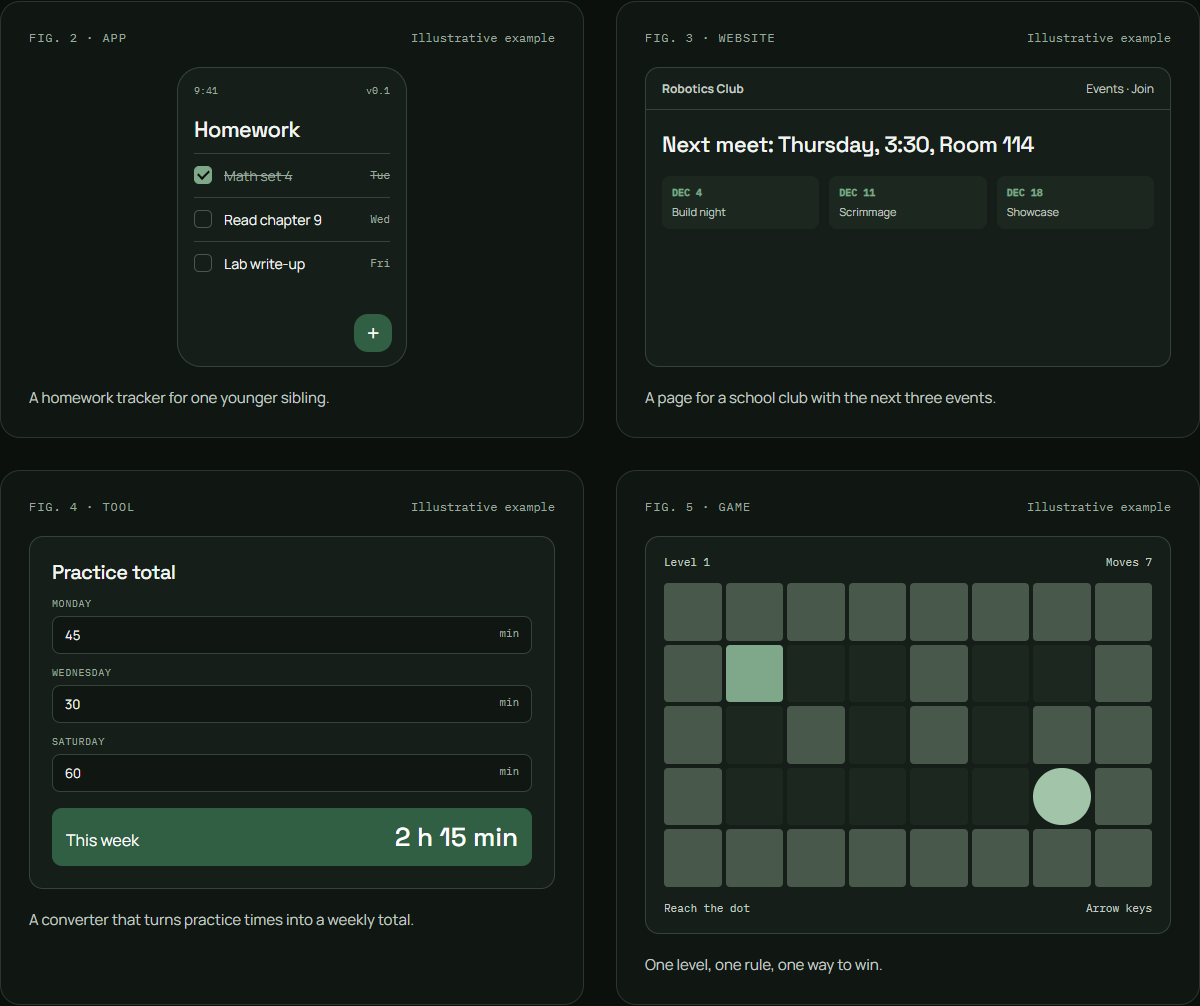
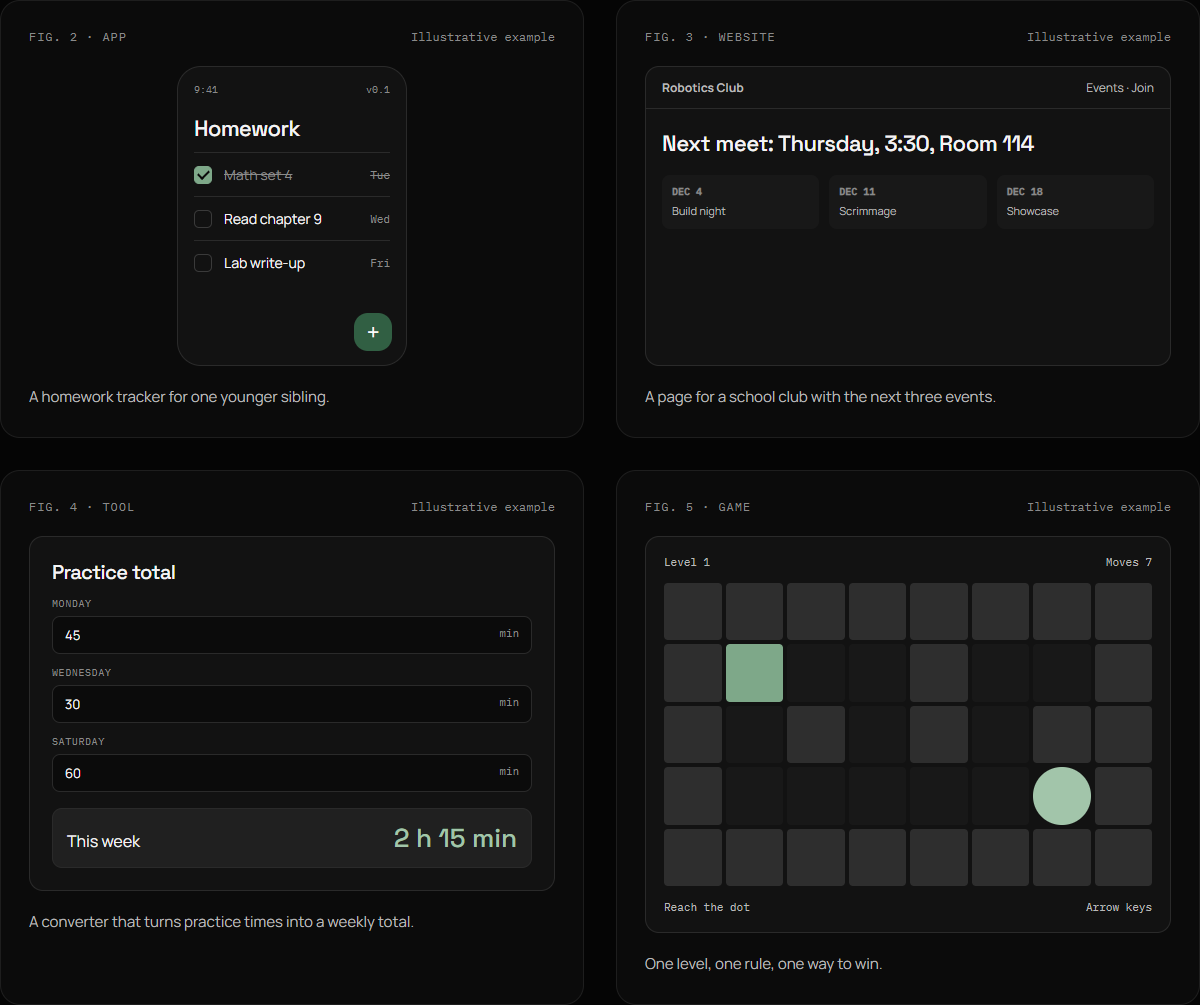
Redesign round 2: neutral palette, simplified mark after founder review

diff --git a/design/mockups/homepage.html b/design/mockups/homepage.html
@@ -6,9 +6,9 @@
 <link rel="preconnect" href="https://fonts.googleapis.com">
 <link href="https://fonts.googleapis.com/css2?family=Space+Grotesk:wght@400;500;700&family=Manrope:wght@400;500;600;700&family=IBM+Plex+Mono:wght@400;500&display=swap" rel="stylesheet">
 <style>
-:root{--bg:#101713;--bgd:#0B100D;--s1:#151E18;--s2:#1C281F;--s3:#253329;--l1:#28362C;--l2:#354438;--l3:#48594C;--t1:#F1F5F1;--t2:#C1CCC3;--t3:#9BA89F;--pine:#7EA889;--pineh:#A2C5AA;--pined:#315F43;--btn:#315F43;--rule:rgba(126,168,137,.075)}
+:root{--bg:#0B0B0B;--bgd:#050505;--s1:#121212;--s2:#181818;--s3:#202020;--l1:#1E1E1E;--l2:#2A2A2A;--l3:#3A3A3A;--t1:#F4F4F4;--t2:#B9B9B9;--t3:#8A8A8A;--pine:#7EA889;--pineh:#A2C5AA;--pined:#315F43;--btn:#315F43;--rule:rgba(255,255,255,.045)}
 *{box-sizing:border-box;margin:0;padding:0}
-body{background:#060907;color:var(--t1);font-family:Manrope,system-ui,sans-serif;-webkit-font-smoothing:antialiased;padding:40px;display:flex;gap:80px;align-items:flex-start}
+body{background:#000;color:var(--t1);font-family:Manrope,system-ui,sans-serif;-webkit-font-smoothing:antialiased;padding:40px;display:flex;gap:80px;align-items:flex-start}
 .artboard{background:var(--bg);flex:none;overflow:hidden;position:relative}
 .d{width:1440px}.m{width:390px}
 .sg{font-family:"Space Grotesk",sans-serif;letter-spacing:-.03em;font-weight:500}
@@ -21,10 +21,10 @@ body{background:#060907;color:var(--t1);font-family:Manrope,system-ui,sans-serif
 .mark{display:inline-block;vertical-align:middle}
 header{height:72px;display:flex;align-items:center;justify-content:space-between;border-bottom:1px solid var(--l1);background:var(--bgd)}
 .logo{display:flex;align-items:center;gap:11px}
-.wm{font-family:"Space Grotesk";font-weight:500;font-size:22px;letter-spacing:-.03em;position:relative}
-.wm b{font-weight:500;color:var(--pine)}
+.wm{font-family:"Space Grotesk";font-weight:500;font-size:22px;letter-spacing:-.03em;position:relative;color:var(--t1)}
+.wm b{font-weight:500;color:inherit}
 .wm i{font-style:normal;position:relative}
-.wm i::after{content:"";position:absolute;left:50%;top:-1px;transform:translateX(-50%);border-left:3px solid transparent;border-right:3px solid transparent;border-bottom:5px solid var(--pine)}
+.wm i::after{display:none}
 nav{display:flex;gap:4px}nav a{color:var(--t2);font-size:14px;font-weight:500;padding:8px 12px;border-radius:8px}
 .hero{background:var(--bgd);position:relative;padding:96px 0 80px;border-bottom:1px solid var(--l1)}
 .rules{position:absolute;inset:0;display:grid;grid-template-columns:repeat(6,1fr);pointer-events:none}
@@ -48,14 +48,14 @@ h1{font-size:76px;line-height:1.0;margin:22px 0 28px}
 .sketch .ttl s{color:var(--t3)}
 .sketch .box{border:1.5px dashed var(--l3);border-radius:8px;height:34px;margin-top:12px}
 .sketch .box.sm{width:60%}
-.sketch .note{position:absolute;left:18px;bottom:18px;background:#2a3a2d;color:var(--t1);font-family:"IBM Plex Mono";font-size:11px;padding:8px 10px;border-radius:6px;transform:rotate(-2deg);line-height:1.5}
+.sketch .note{position:absolute;left:18px;bottom:18px;background:#262626;color:var(--t1);font-family:"IBM Plex Mono";font-size:11px;padding:8px 10px;border-radius:6px;transform:rotate(-2deg);line-height:1.5}
 .phone{width:290px;height:330px;background:var(--s2);border-radius:28px;padding:18px 18px 0;position:relative}
 .phone .bar{display:flex;justify-content:space-between;font-family:"IBM Plex Mono";font-size:11px;color:var(--t3)}
 .phone h4{font-family:"Space Grotesk";font-weight:500;font-size:24px;letter-spacing:-.02em;margin:22px 0 14px}
 .row{display:flex;align-items:center;gap:12px;padding:12px 0;border-top:1px solid var(--l2);font-size:14px}
 .row .cb{width:18px;height:18px;border-radius:5px;border:1.5px solid var(--l3);flex:none}
 .row .cb.on{background:var(--pine);border-color:var(--pine)}
-.row .cb.on::after{content:"";display:block;width:5px;height:9px;border:solid #0B100D;border-width:0 2px 2px 0;transform:rotate(45deg);margin:1px 0 0 5px}
+.row .cb.on::after{content:"";display:block;width:5px;height:9px;border:solid #0B0B0B;border-width:0 2px 2px 0;transform:rotate(45deg);margin:1px 0 0 5px}
 .row .due{margin-left:auto;font-family:"IBM Plex Mono";font-size:11px;color:var(--t3)}
 .row.done span{color:var(--t3);text-decoration:line-through}
 .fab{position:absolute;right:18px;bottom:22px;width:44px;height:44px;border-radius:14px;background:var(--btn);display:flex;align-items:center;justify-content:center;font-size:22px;color:#fff}
@@ -73,7 +73,7 @@ h1{font-size:76px;line-height:1.0;margin:22px 0 28px}
 .conn{position:absolute;left:150px;top:290px;width:180px;height:140px;pointer-events:none}
 .strip{border-bottom:1px solid var(--l1);padding:22px 0;display:flex;align-items:center;gap:40px;overflow:hidden}
 .strip .items{display:flex;gap:40px;align-items:center;white-space:nowrap;font-family:"Space Grotesk";font-weight:500;font-size:20px;letter-spacing:-.02em;color:var(--t2)}
-.strip .items span::before{content:"";display:inline-block;width:5px;height:5px;background:var(--pine);border-radius:1px;margin:0 40px 3px 0;transform:rotate(45deg)}
+.strip .items span::before{content:"";display:inline-block;width:5px;height:5px;background:var(--l3);border-radius:1px;margin:0 40px 3px 0;transform:rotate(45deg)}
 .strip .items span:first-child::before{display:none}
 .pause{margin-left:auto;font-family:"IBM Plex Mono";font-size:11px;color:var(--t3);border:1px solid var(--l2);border-radius:6px;padding:6px 10px}
 section{padding:112px 0}
@@ -89,7 +89,7 @@ h2{font-size:48px;line-height:1.06}
 .tl .cols{display:grid;grid-template-columns:repeat(3,1fr);gap:48px}
 .tl .node{position:absolute;top:-6px;width:14px;height:14px;border-radius:50%;background:var(--bg);border:2px solid var(--l3)}
 .tl .node.a{left:0;border-color:var(--pine);background:var(--pine)}.tl .node.b{left:33.33%}.tl .node.c{left:66.66%}
-.stage .code{font-family:"IBM Plex Mono";font-size:12px;color:var(--pine);letter-spacing:.08em}
+.stage .code{font-family:"IBM Plex Mono";font-size:12px;color:var(--t3);letter-spacing:.08em}
 .stage h3{font-size:32px;margin:10px 0 4px}
 .stage .dt{font-family:"IBM Plex Mono";font-size:12px;color:var(--t3);margin-bottom:14px}
 .stage p{color:var(--t2);font-size:16px;line-height:1.6}
@@ -114,18 +114,18 @@ h2{font-size:48px;line-height:1.06}
 .site .hero2 h5{font-family:"Space Grotesk";font-size:22px;font-weight:500;letter-spacing:-.02em;line-height:1.1}
 .site .ev{display:grid;grid-template-columns:repeat(3,1fr);gap:10px;padding:10px 16px}
 .site .ev div{background:var(--s2);border-radius:8px;padding:10px;font-size:11px;color:var(--t2);line-height:1.4}
-.site .ev b{display:block;font-family:"IBM Plex Mono";font-size:10px;color:var(--pine);margin-bottom:4px}
+.site .ev b{display:block;font-family:"IBM Plex Mono";font-size:10px;color:var(--t3);margin-bottom:4px}
 .tool{padding:22px}
 .tool label{display:block;font-family:"IBM Plex Mono";font-size:10px;color:var(--t3);margin:12px 0 6px;letter-spacing:.06em;text-transform:uppercase}
 .tool .in{background:var(--bg);border:1px solid var(--l2);border-radius:8px;padding:9px 12px;font-size:13px;color:var(--t1);display:flex;justify-content:space-between}
 .tool .in span{color:var(--t3);font-family:"IBM Plex Mono";font-size:11px}
-.tool .tot{margin-top:16px;background:var(--pined);border-radius:10px;padding:12px 14px;display:flex;justify-content:space-between;align-items:baseline;color:#fff}
-.tool .tot b{font-family:"Space Grotesk";font-size:26px;font-weight:500}
+.tool .tot{margin-top:16px;background:var(--s3);border:1px solid var(--l2);border-radius:10px;padding:12px 14px;display:flex;justify-content:space-between;align-items:baseline;color:var(--t1)}
+.tool .tot b{font-family:"Space Grotesk";font-size:26px;font-weight:500;color:var(--pineh)}
 .game{padding:18px;display:flex;flex-direction:column;gap:14px}
 .game .hud{display:flex;justify-content:space-between;font-family:"IBM Plex Mono";font-size:11px;color:var(--t2)}
 .game .board{display:grid;grid-template-columns:repeat(8,1fr);gap:4px}
 .game .board i{aspect-ratio:1;background:var(--s2);border-radius:4px}
-.game .board i.w{background:var(--l3)}.game .board i.p{background:var(--pine)}.game .board i.g{background:var(--pineh);border-radius:50%}
+.game .board i.w{background:#2E2E2E}.game .board i.p{background:var(--pine)}.game .board i.g{background:var(--pineh);border-radius:50%}
 .leave .panel{margin-top:56px;background:var(--s1);border-radius:20px;padding:12px 48px;display:grid;grid-template-columns:1fr 1fr;column-gap:64px}
 .leave .it{padding:30px 0;border-top:1px solid var(--l2)}
 .leave .it:nth-child(-n+2){border-top:0}
@@ -181,7 +181,7 @@ footer .cols a,footer .cols p{display:block;color:var(--t3);font-size:14px;line-
 <!-- ===================== DESKTOP 1440 ===================== -->
 <div class="artboard d" id="desktop">
 <header><div class="wrap" style="display:flex;align-items:center;justify-content:space-between;width:100%">
-  <div class="logo"><svg class="mark" width="26" height="26" viewBox="0 0 24 24" fill="#7EA889"><path d="M12 6 L21 17 H3 Z"/><path d="M12 1 L18 10 H6 Z"/><rect x="10.5" y="17" width="3" height="3"/><rect x="5" y="21.5" width="14" height="2" rx="1"/></svg><span class="wm">P<i>ı</i>ne<b>Launch</b></span></div>
+  <div class="logo"><svg class="mark" width="26" height="26" viewBox="0 0 24 24" fill="#7EA889"><path d="M12 2.5 L21.5 16 H2.5 Z"/><rect x="4.5" y="19" width="15" height="2.5" rx="1.25"/></svg><span class="wm">PineLaunch</span></div>
   <nav><a>Dashboard</a><a>Week 1</a><a>Week 2</a><a>Week 3</a><a>Launch Day</a><a>Prompts</a><a>Parents</a></nav>
   <a class="btn p" style="height:42px">Start</a>
 </div></header>
@@ -203,7 +203,7 @@ footer .cols a,footer .cols p{display:block;color:var(--t3);font-size:14px;line-
   <div class="fig">
     <div class="fcard" style="left:0;top:0"><div class="tag"><span class="n on">01</span><span class="mono">Idea · Dec 1–6</span></div>
       <div class="card sketch"><div class="ttl"><s>study app?</s> → homework tracker</div><div class="box"></div><div class="box sm"></div><div class="box" style="width:80%"></div><div class="note">for my brother<br>grade 6</div></div></div>
-    <div class="fcard" style="left:256px;top:90px"><div class="tag"><span class="n">02</span><span class="mono">Build · Dec 7–13</span></div>
+    <div class="fcard" style="left:256px;top:112px"><div class="tag"><span class="n">02</span><span class="mono">Build · Dec 7–13</span></div>
       <div class="card phone"><div class="bar"><span>9:41</span><span>v0.1</span></div><h4>Homework</h4>
       <div class="row done"><span class="cb on"></span><span>Math set 4</span><span class="due">Tue</span></div>
       <div class="row"><span class="cb"></span><span>Read chapter 9</span><span class="due">Wed</span></div>
@@ -235,7 +235,7 @@ footer .cols a,footer .cols p{display:block;color:var(--t3);font-size:14px;line-
   <div class="two" style="align-items:end"><h2 class="sg">Three weeks, three jobs</h2><p class="sublead" style="margin:0">Each week has one goal. Finish it and the next one is waiting.</p></div>
   <div class="tl"><div class="track"><span class="node a"></span><span class="node b"></span><span class="node c"></span></div>
     <div class="cols">
-      <div class="stage"><div class="code">01 · WEEK 1</div><h3 class="sg">Idea</h3><div class="dt">Dec 1 to 6</div><p>Choose something small enough to finish. Seven questions give you a Project Card.</p><div class="ic"><div class="pc"><span class="mono">Project card</span><b>Homework tracker</b><span>App · for my brother · three features</span></div></div></div>
+      <div class="stage"><div class="code" style="color:var(--pine)">01 · WEEK 1</div><h3 class="sg">Idea</h3><div class="dt">Dec 1 to 6</div><p>Choose something small enough to finish. Seven questions give you a Project Card.</p><div class="ic"><div class="pc"><span class="mono">Project card</span><b>Homework tracker</b><span>App · for my brother · three features</span></div></div></div>
       <div class="stage"><div class="code">02 · WEEK 2</div><h3 class="sg">Build</h3><div class="dt">Dec 7 to 13</div><p>Make a working first version. Three features, the ugly version first.</p><div class="ic"><div class="scr"><div class="row done"><span class="cb on"></span><span>Add a task</span></div><div class="row done"><span class="cb on"></span><span>Tick it off</span></div><div class="row"><span class="cb"></span><span>Sort by due date</span></div></div></div></div>
       <div class="stage"><div class="code">03 · WEEK 3</div><h3 class="sg">Launch</h3><div class="dt">Dec 14 to 20</div><p>Get three people to try it, fix one thing, and publish a link.</p><div class="ic"><div class="urlbar"><span>homework-tracker.replit.app</span><span class="live">Live</span></div></div></div>
     </div>
@@ -284,7 +284,7 @@ footer .cols a,footer .cols p{display:block;color:var(--t3);font-size:14px;line-
 <div class="close"><div class="wrap"><h2 class="sg">Start with one small idea.</h2><p>The idea picker takes about ten minutes and gives you a Project Card. That is the whole first step.</p><div class="cta" style="margin:0"><a class="btn p">Start the idea picker</a><a class="btn">For parents</a></div></div></div>
 
 <footer><div class="wrap cols">
-  <div><div class="logo"><svg class="mark" width="22" height="22" viewBox="0 0 24 24" fill="#7EA889"><path d="M12 6 L21 17 H3 Z"/><path d="M12 1 L18 10 H6 Z"/><rect x="10.5" y="17" width="3" height="3"/><rect x="5" y="21.5" width="14" height="2" rx="1"/></svg><span class="wm" style="font-size:19px">P<i>ı</i>ne<b>Launch</b></span></div><p style="margin-top:14px;max-width:360px">A free three-week program where high school students build and launch one real project. Pilot cohort, December 2026.</p></div>
+  <div><div class="logo"><svg class="mark" width="22" height="22" viewBox="0 0 24 24" fill="#7EA889"><path d="M12 2.5 L21.5 16 H2.5 Z"/><rect x="4.5" y="19" width="15" height="2.5" rx="1.25"/></svg><span class="wm" style="font-size:19px">PineLaunch</span></div><p style="margin-top:14px;max-width:360px">A free three-week program where high school students build and launch one real project. Pilot cohort, December 2026.</p></div>
   <div><a>Dashboard</a><a>Week 1 · Idea</a><a>Week 2 · Build</a><a>Week 3 · Launch</a><a>Launch Day</a><a>Prompts</a></div>
   <div><a>For parents</a><a>aithacode@gmail.com</a><p>No accounts. No tracking. Progress stays in your browser.</p></div>
 </div></footer>
@@ -292,7 +292,7 @@ footer .cols a,footer .cols p{display:block;color:var(--t3);font-size:14px;line-
 
 <!-- ===================== MOBILE 390 ===================== -->
 <div class="artboard m" id="mobile">
-<header><div class="logo"><svg class="mark" width="24" height="24" viewBox="0 0 24 24" fill="#7EA889"><path d="M12 6 L21 17 H3 Z"/><path d="M12 1 L18 10 H6 Z"/><rect x="10.5" y="17" width="3" height="3"/><rect x="5" y="21.5" width="14" height="2" rx="1"/></svg><span class="wm" style="font-size:20px">P<i>ı</i>ne<b>Launch</b></span></div><div class="menu"><i></i><i></i></div></header>
+<header><div class="logo"><svg class="mark" width="24" height="24" viewBox="0 0 24 24" fill="#7EA889"><path d="M12 2.5 L21.5 16 H2.5 Z"/><rect x="4.5" y="19" width="15" height="2.5" rx="1.25"/></svg><span class="wm" style="font-size:20px">PineLaunch</span></div><div class="menu"><i></i><i></i></div></header>
 <div class="hero"><div class="wrap">
   <div class="mono">Free pilot · Dec 1 – 20, 2026</div>
   <h1 class="sg">Build and launch one real project in three weeks.</h1>
@@ -311,7 +311,7 @@ footer .cols a,footer .cols p{display:block;color:var(--t3);font-size:14px;line-
   <div class="list"><div class="it"><h3 class="sg">Students 13 to 17</h3><p>Most have never written code. The guides assume you are starting from zero.</p></div><div class="it"><h3 class="sg">Beginners are welcome</h3><p>You learn by building one thing, not by finishing a course first.</p></div><div class="it"><h3 class="sg">People with a small idea</h3><p>An app, a website, a tool, or a one-screen game.</p></div></div></div></section>
 <section class="hair"><div class="wrap"><h2 class="sg">Three weeks,<br>three jobs</h2><p class="sublead">Each week has one goal.</p>
   <div class="tl"><div class="cols">
-    <div class="stage"><div class="code">01 · WEEK 1</div><h3 class="sg">Idea</h3><div class="dt">Dec 1 to 6</div><p>Choose something small enough to finish.</p></div>
+    <div class="stage"><div class="code" style="color:var(--pine)">01 · WEEK 1</div><h3 class="sg">Idea</h3><div class="dt">Dec 1 to 6</div><p>Choose something small enough to finish.</p></div>
     <div class="stage"><div class="code">02 · WEEK 2</div><h3 class="sg">Build</h3><div class="dt">Dec 7 to 13</div><p>Make a working first version.</p></div>
     <div class="stage"><div class="code">03 · WEEK 3</div><h3 class="sg">Launch</h3><div class="dt">Dec 14 to 20</div><p>Get feedback and publish the project.</p></div>
   </div></div></div></section>
@@ -325,7 +325,7 @@ footer .cols a,footer .cols p{display:block;color:var(--t3);font-size:14px;line-
 <section class="leave"><div class="wrap"><h2 class="sg">What you leave with</h2><div class="panel"><div class="it"><h3 class="sg">One working project</h3><p>Built by you, used by real people.</p></div><div class="it"><h3 class="sg">A public link</h3><p>Anyone can open it. It is yours to keep.</p></div><div class="it"><h3 class="sg">Feedback from real people</h3><p>Three testers watched, and you fixed what mattered.</p></div><div class="it"><h3 class="sg">A way of working</h3><p>Scope small, build the ugly version, test, fix one thing, ship.</p></div></div></div></section>
 <section class="runs hair"><div class="wrap"><h2 class="sg" style="margin-bottom:18px">Who runs this</h2><p>PineLaunch is built and run by a high school student, with his parents' support. A parent is in the group chat. The program is free during the pilot.</p><div class="priv"><span>This site keeps no accounts and collects no personal information. Your progress is saved in your own browser.</span></div></div></section>
 <div class="close"><div class="wrap"><h2 class="sg">Start with one small idea.</h2><p>The idea picker takes about ten minutes and gives you a Project Card.</p><div class="cta"><a class="btn p">Start the idea picker</a><a class="btn">For parents</a></div></div></div>
-<footer><div class="wrap cols"><div><div class="logo"><span class="wm" style="font-size:19px">P<i>ı</i>ne<b>Launch</b></span></div><p style="margin-top:10px">A free three-week program. Pilot cohort, December 2026.</p></div><div><a>Dashboard</a><a>Week 1 · Idea</a><a>Week 2 · Build</a><a>Week 3 · Launch</a><a>Prompts</a></div><div><a>For parents</a><a>aithacode@gmail.com</a><p>No accounts. No tracking.</p></div></div></footer>
+<footer><div class="wrap cols"><div><div class="logo"><span class="wm" style="font-size:19px">PineLaunch</span></div><p style="margin-top:10px">A free three-week program. Pilot cohort, December 2026.</p></div><div><a>Dashboard</a><a>Week 1 · Idea</a><a>Week 2 · Build</a><a>Week 3 · Launch</a><a>Prompts</a></div><div><a>For parents</a><a>aithacode@gmail.com</a><p>No accounts. No tracking.</p></div></div></footer>
 </div>
 </body>
 </html>

diff --git a/design/mockups/brand.html b/design/mockups/brand.html
@@ -3,81 +3,67 @@
 <link href="https://fonts.googleapis.com/css2?family=Space+Grotesk:wght@500&family=Manrope:wght@400;600&family=IBM+Plex+Mono:wght@400;500&display=swap" rel="stylesheet">
 <style>
 *{box-sizing:border-box;margin:0;padding:0}
-body{background:#0B100D;color:#F1F5F1;font-family:Manrope,sans-serif;-webkit-font-smoothing:antialiased}
-#sheet{width:1440px;padding:72px 96px;background:#0B100D}
+body{background:#050505;color:#F4F4F4;font-family:Manrope,sans-serif;-webkit-font-smoothing:antialiased}
+#sheet{width:1440px;padding:72px 96px;background:#050505}
 h1{font-family:"Space Grotesk";font-weight:500;font-size:40px;letter-spacing:-.03em}
-.sub{color:#C1CCC3;font-size:17px;line-height:1.6;max-width:760px;margin:12px 0 48px}
-.mono{font-family:"IBM Plex Mono";font-size:12px;letter-spacing:.08em;text-transform:uppercase;color:#9BA89F}
-.grid{display:grid;grid-template-columns:1fr 1fr 1fr;gap:24px;margin-bottom:40px}
-.c{border:1px solid #28362C;border-radius:20px;padding:28px;background:#101713}
-.c.rec{border-color:#315F43}
-.c h3{font-family:"Space Grotesk";font-weight:500;font-size:22px;letter-spacing:-.02em;margin:18px 0 8px}
-.c p{color:#C1CCC3;font-size:14px;line-height:1.55}
-.row{display:flex;align-items:flex-end;gap:28px;height:150px}
-.pill{display:inline-block;font-family:"IBM Plex Mono";font-size:11px;letter-spacing:.08em;text-transform:uppercase;color:#A2C5AA;border:1px solid #315F43;border-radius:999px;padding:5px 10px;margin-left:10px;vertical-align:middle}
-.wm{font-family:"Space Grotesk";font-weight:500;letter-spacing:-.03em}
-.wm b{font-weight:500;color:#7EA889}
-.wm i{font-style:normal;position:relative}
-.wm i::after{content:"";position:absolute;left:50%;top:.04em;transform:translateX(-50%);border-left:.13em solid transparent;border-right:.13em solid transparent;border-bottom:.2em solid #7EA889}
+.sub{color:#B9B9B9;font-size:17px;line-height:1.6;max-width:760px;margin:12px 0 48px}
+.mono{font-family:"IBM Plex Mono";font-size:12px;letter-spacing:.08em;text-transform:uppercase;color:#8A8A8A}
+.wm{font-family:"Space Grotesk";font-weight:500;letter-spacing:-.03em;color:#F4F4F4}
 .lock{display:flex;align-items:center;gap:.5em}
-.panels{display:grid;grid-template-columns:2fr 1fr;gap:24px}
-.p{border-radius:20px;padding:36px;display:flex;flex-direction:column;gap:32px}
-.dark{background:#101713;border:1px solid #28362C}
-.light{background:#F1F5F1;color:#0B100D}
-.light .wm{color:#0B100D}.light .wm b{color:#315F43}
+.grid{display:grid;grid-template-columns:3fr 2fr;gap:24px;margin-bottom:24px}
+.p{border-radius:20px;padding:36px;display:flex;flex-direction:column;gap:32px;border:1px solid #1E1E1E;background:#0B0B0B}
+.light{background:#F4F4F4;color:#0B0B0B;border-color:#F4F4F4}
+.light .wm{color:#0B0B0B}
+.light .mono{color:#6A6A6A}
+.sizes{display:flex;align-items:flex-end;gap:40px;height:200px}
 .tiles{display:flex;align-items:flex-end;gap:32px}
-.tile{background:#0B100D;display:flex;align-items:center;justify-content:center}
-.light .tile{background:#0B100D}
+.tile{background:#0B0B0B;display:flex;align-items:center;justify-content:center}
+.light .tile{border:1px solid #DADADA}
+.old{display:grid;grid-template-columns:repeat(3,1fr);gap:24px}
+.old .c{border:1px solid #1E1E1E;border-radius:16px;padding:20px 24px;display:flex;align-items:center;gap:20px;color:#8A8A8A;font-size:14px}
+.btn{display:inline-flex;align-items:center;height:44px;padding:0 20px;border-radius:10px;font-weight:600;font-size:14px;background:#315F43;color:#fff}
+.note{color:#8A8A8A;font-size:14px;line-height:1.6}
 </style></head><body>
 <div id="sheet">
-<h1>PineLaunch — logo concepts</h1>
-<p class="sub">Three directions, all built on a 24-unit grid, all working at 16 px. Concept A is the recommendation: it reads as a pine first and a launch second, and its silhouette stays clear in a favicon.</p>
+<h1>PineLaunch — brand, revised</h1>
+<p class="sub">One triangle over one bar. The triangle is the pine, the arrow and the launch; the bar is the pad it has just left. Two shapes, nothing to lose at 16 px. The wordmark is one color and one weight. Pine green appears on the mark, the primary button and small live indicators, and nowhere else.</p>
 
 <div class="grid">
-  <div class="c rec"><span class="mono">Concept A</span><span class="pill">Recommended</span>
-    <div class="row">
-      <svg width="150" height="150" viewBox="0 0 24 24" fill="#7EA889"><path d="M12 6 L21 17 H3 Z"/><path d="M12 1 L18 10 H6 Z"/><rect x="10.5" y="17" width="3" height="3"/><rect x="5" y="21.5" width="14" height="2" rx="1"/></svg>
-      <svg width="48" height="48" viewBox="0 0 24 24" fill="#7EA889"><path d="M12 6 L21 17 H3 Z"/><path d="M12 1 L18 10 H6 Z"/><rect x="10.5" y="17" width="3" height="3"/><rect x="5" y="21.5" width="14" height="2" rx="1"/></svg>
-      <svg width="24" height="24" viewBox="0 0 24 24" fill="#7EA889"><path d="M12 6 L21 17 H3 Z"/><path d="M12 1 L18 10 H6 Z"/><rect x="10.5" y="17" width="3" height="3"/><rect x="5" y="21.5" width="14" height="2" rx="1"/></svg>
-      <svg width="16" height="16" viewBox="0 0 24 24" fill="#7EA889"><path d="M12 6 L21 17 H3 Z"/><path d="M12 1 L18 10 H6 Z"/><rect x="10.5" y="17" width="3" height="3"/><rect x="5" y="21.5" width="14" height="2" rx="1"/></svg>
+  <div class="p">
+    <span class="mono">Mark at 200, 64, 32, 24, 16</span>
+    <div class="sizes">
+      <svg width="200" height="200" viewBox="0 0 24 24" fill="#7EA889"><path d="M12 2.5 L21.5 16 H2.5 Z"/><rect x="4.5" y="19" width="15" height="2.5" rx="1.25"/></svg>
+      <svg width="64" height="64" viewBox="0 0 24 24" fill="#7EA889"><path d="M12 2.5 L21.5 16 H2.5 Z"/><rect x="4.5" y="19" width="15" height="2.5" rx="1.25"/></svg>
+      <svg width="32" height="32" viewBox="0 0 24 24" fill="#7EA889"><path d="M12 2.5 L21.5 16 H2.5 Z"/><rect x="4.5" y="19" width="15" height="2.5" rx="1.25"/></svg>
+      <svg width="24" height="24" viewBox="0 0 24 24" fill="#7EA889"><path d="M12 2.5 L21.5 16 H2.5 Z"/><rect x="4.5" y="19" width="15" height="2.5" rx="1.25"/></svg>
+      <svg width="16" height="16" viewBox="0 0 24 24" fill="#7EA889"><path d="M12 2.5 L21.5 16 H2.5 Z"/><rect x="4.5" y="19" width="15" height="2.5" rx="1.25"/></svg>
     </div>
-    <h3>Pine on the pad</h3><p>Two tiers and a trunk make the pine. The bar underneath is the launch pad, and the small gap means the tree has already lifted off. Calm, solid, unmistakably a pine.</p></div>
-  <div class="c"><span class="mono">Concept B</span>
-    <div class="row">
-      <svg width="150" height="150" viewBox="0 0 24 24" fill="#7EA889"><path d="M12 1 L21 18 H14.5 L12 15 L9.5 18 H3 Z"/><rect x="10.5" y="19" width="3" height="4"/></svg>
-      <svg width="48" height="48" viewBox="0 0 24 24" fill="#7EA889"><path d="M12 1 L21 18 H14.5 L12 15 L9.5 18 H3 Z"/><rect x="10.5" y="19" width="3" height="4"/></svg>
-      <svg width="24" height="24" viewBox="0 0 24 24" fill="#7EA889"><path d="M12 1 L21 18 H14.5 L12 15 L9.5 18 H3 Z"/><rect x="10.5" y="19" width="3" height="4"/></svg>
-      <svg width="16" height="16" viewBox="0 0 24 24" fill="#7EA889"><path d="M12 1 L21 18 H14.5 L12 15 L9.5 18 H3 Z"/><rect x="10.5" y="19" width="3" height="4"/></svg>
-    </div>
-    <h3>Rocket pine</h3><p>One tall triangle with a notch cut into its base, so the outline is a pine and a rocket with fins at the same time. Sharper and more energetic, slightly less friendly.</p></div>
-  <div class="c"><span class="mono">Concept C</span>
-    <div class="row">
-      <svg width="150" height="150" viewBox="0 0 24 24" fill="#7EA889"><rect x="3" y="2" width="4" height="20" rx="1"/><path d="M9 4 L21 11 L9 18 Z"/></svg>
-      <svg width="48" height="48" viewBox="0 0 24 24" fill="#7EA889"><rect x="3" y="2" width="4" height="20" rx="1"/><path d="M9 4 L21 11 L9 18 Z"/></svg>
-      <svg width="24" height="24" viewBox="0 0 24 24" fill="#7EA889"><rect x="3" y="2" width="4" height="20" rx="1"/><path d="M9 4 L21 11 L9 18 Z"/></svg>
-      <svg width="16" height="16" viewBox="0 0 24 24" fill="#7EA889"><rect x="3" y="2" width="4" height="20" rx="1"/><path d="M9 4 L21 11 L9 18 Z"/></svg>
-    </div>
-    <h3>P monogram</h3><p>A stem and a sideways pine form a letter P that also reads as a play or launch arrow. Clever, but it loses the pine at small sizes and looks like a media button.</p></div>
-</div>
-
-<div class="panels">
-  <div class="p dark">
-    <span class="mono">Concept A — lockups and wordmark</span>
-    <div class="lock" style="font-size:40px"><svg width="44" height="44" viewBox="0 0 24 24" fill="#7EA889"><path d="M12 6 L21 17 H3 Z"/><path d="M12 1 L18 10 H6 Z"/><rect x="10.5" y="17" width="3" height="3"/><rect x="5" y="21.5" width="14" height="2" rx="1"/></svg><span class="wm">P<i>ı</i>ne<b>Launch</b></span></div>
-    <div class="lock" style="font-size:22px"><svg width="26" height="26" viewBox="0 0 24 24" fill="#7EA889"><path d="M12 6 L21 17 H3 Z"/><path d="M12 1 L18 10 H6 Z"/><rect x="10.5" y="17" width="3" height="3"/><rect x="5" y="21.5" width="14" height="2" rx="1"/></svg><span class="wm">P<i>ı</i>ne<b>Launch</b></span><span class="mono" style="margin-left:24px">Header size</span></div>
-    <div class="lock" style="font-size:40px"><svg width="44" height="44" viewBox="0 0 24 24" fill="#F1F5F1"><path d="M12 6 L21 17 H3 Z"/><path d="M12 1 L18 10 H6 Z"/><rect x="10.5" y="17" width="3" height="3"/><rect x="5" y="21.5" width="14" height="2" rx="1"/></svg><span class="wm">P<i>ı</i>ne<b style="color:#F1F5F1">Launch</b></span><span class="mono" style="margin-left:24px">One color</span></div>
-    <p style="color:#9BA89F;font-size:14px;line-height:1.6">Wordmark: Space Grotesk Medium, tracking -3%. The dot of the i is replaced by a small pine triangle. "Launch" is set in pine so the name splits into its two ideas.</p>
+    <span class="mono">Lockups</span>
+    <div class="lock" style="font-size:44px"><svg width="46" height="46" viewBox="0 0 24 24" fill="#7EA889"><path d="M12 2.5 L21.5 16 H2.5 Z"/><rect x="4.5" y="19" width="15" height="2.5" rx="1.25"/></svg><span class="wm">PineLaunch</span></div>
+    <div class="lock" style="font-size:22px"><svg width="24" height="24" viewBox="0 0 24 24" fill="#7EA889"><path d="M12 2.5 L21.5 16 H2.5 Z"/><rect x="4.5" y="19" width="15" height="2.5" rx="1.25"/></svg><span class="wm">PineLaunch</span><span class="mono" style="margin-left:24px">Header size</span></div>
+    <div class="lock" style="font-size:44px"><svg width="46" height="46" viewBox="0 0 24 24" fill="#F4F4F4"><path d="M12 2.5 L21.5 16 H2.5 Z"/><rect x="4.5" y="19" width="15" height="2.5" rx="1.25"/></svg><span class="wm">PineLaunch</span><span class="mono" style="margin-left:24px">One color</span></div>
+    <p class="note">Wordmark: Space Grotesk Medium, tracking -3%, white. Clear space one bar-height on all sides. Minimum 16 px.</p>
   </div>
   <div class="p light">
-    <span class="mono" style="color:#48594C">On light, and the icon tile</span>
-    <div class="lock" style="font-size:28px"><svg width="32" height="32" viewBox="0 0 24 24" fill="#0B100D"><path d="M12 6 L21 17 H3 Z"/><path d="M12 1 L18 10 H6 Z"/><rect x="10.5" y="17" width="3" height="3"/><rect x="5" y="21.5" width="14" height="2" rx="1"/></svg><span class="wm">P<i>ı</i>ne<b>Launch</b></span></div>
+    <span class="mono">On light</span>
+    <div class="lock" style="font-size:32px"><svg width="34" height="34" viewBox="0 0 24 24" fill="#0B0B0B"><path d="M12 2.5 L21.5 16 H2.5 Z"/><rect x="4.5" y="19" width="15" height="2.5" rx="1.25"/></svg><span class="wm">PineLaunch</span></div>
+    <span class="mono">Icon tile 96, 48, 32, 16</span>
     <div class="tiles">
-      <div class="tile" style="width:96px;height:96px;border-radius:21px"><svg width="72" height="72" viewBox="0 0 24 24" fill="#A2C5AA"><path d="M12 6 L21 17 H3 Z"/><path d="M12 1 L18 10 H6 Z"/><rect x="10.5" y="17" width="3" height="3"/><rect x="5" y="21.5" width="14" height="2" rx="1"/></svg></div>
-      <div class="tile" style="width:48px;height:48px;border-radius:11px"><svg width="36" height="36" viewBox="0 0 24 24" fill="#A2C5AA"><path d="M12 6 L21 17 H3 Z"/><path d="M12 1 L18 10 H6 Z"/><rect x="10.5" y="17" width="3" height="3"/><rect x="5" y="21.5" width="14" height="2" rx="1"/></svg></div>
-      <div class="tile" style="width:32px;height:32px;border-radius:7px"><svg width="24" height="24" viewBox="0 0 24 24" fill="#A2C5AA"><path d="M12 6 L21 17 H3 Z"/><path d="M12 1 L18 10 H6 Z"/><rect x="10.5" y="17" width="3" height="3"/><rect x="5" y="21.5" width="14" height="2" rx="1"/></svg></div>
-      <div class="tile" style="width:16px;height:16px;border-radius:4px"><svg width="12" height="12" viewBox="0 0 24 24" fill="#A2C5AA"><path d="M12 6 L21 17 H3 Z"/><path d="M12 1 L18 10 H6 Z"/><rect x="10.5" y="17" width="3" height="3"/><rect x="5" y="21.5" width="14" height="2" rx="1"/></svg></div>
+      <div class="tile" style="width:96px;height:96px;border-radius:21px"><svg width="68" height="68" viewBox="0 0 24 24" fill="#A2C5AA"><path d="M12 2.5 L21.5 16 H2.5 Z"/><rect x="4.5" y="19" width="15" height="2.5" rx="1.25"/></svg></div>
+      <div class="tile" style="width:48px;height:48px;border-radius:11px"><svg width="34" height="34" viewBox="0 0 24 24" fill="#A2C5AA"><path d="M12 2.5 L21.5 16 H2.5 Z"/><rect x="4.5" y="19" width="15" height="2.5" rx="1.25"/></svg></div>
+      <div class="tile" style="width:32px;height:32px;border-radius:7px"><svg width="22" height="22" viewBox="0 0 24 24" fill="#A2C5AA"><path d="M12 2.5 L21.5 16 H2.5 Z"/><rect x="4.5" y="19" width="15" height="2.5" rx="1.25"/></svg></div>
+      <div class="tile" style="width:16px;height:16px;border-radius:4px"><svg width="11" height="11" viewBox="0 0 24 24" fill="#A2C5AA"><path d="M12 2.5 L21.5 16 H2.5 Z"/><rect x="4.5" y="19" width="15" height="2.5" rx="1.25"/></svg></div>
     </div>
+    <span class="mono">Where green appears</span>
+    <div style="display:flex;gap:16px;align-items:center"><span class="btn">Start the idea picker</span><span style="font-family:'IBM Plex Mono';font-size:12px;color:#315F43;display:inline-flex;align-items:center;gap:6px"><i style="width:7px;height:7px;border-radius:50%;background:#7EA889;display:inline-block"></i>Live</span></div>
   </div>
+</div>
+
+<span class="mono">Earlier options, for the record</span>
+<div class="old" style="margin-top:14px">
+  <div class="c"><svg width="40" height="40" viewBox="0 0 24 24" fill="#3A3A3A"><path d="M12 6 L21 17 H3 Z"/><path d="M12 1 L18 10 H6 Z"/><rect x="10.5" y="17" width="3" height="3"/><rect x="5" y="21.5" width="14" height="2" rx="1"/></svg>A · Tiered pine on pad. Too detailed, too "nature".</div>
+  <div class="c"><svg width="40" height="40" viewBox="0 0 24 24" fill="#3A3A3A"><path d="M12 1 L21 18 H14.5 L12 15 L9.5 18 H3 Z"/><rect x="10.5" y="19" width="3" height="4"/></svg>B · Rocket pine. Aggressive, less clear at 16 px.</div>
+  <div class="c"><svg width="40" height="40" viewBox="0 0 24 24" fill="#3A3A3A"><rect x="3" y="2" width="4" height="20" rx="1"/><path d="M9 4 L21 11 L9 18 Z"/></svg>C · P monogram. Reads as a play button.</div>
 </div>
 </div>
 </body></html>

diff --git a/design/DIRECTION.md b/design/DIRECTION.md
@@ -15,24 +15,30 @@ dashboard and the week pages. Nothing on the site is decoration.
 | Full-page grid wash plus glows | Six faint column rules in the hero only, flat surfaces elsewhere |
 | Same rounded panel everywhere | Alternating layouts: editorial split, hairline list, timeline, figure grid, filled panel, reading column |
 | Showcase of bars and lines | Four believable interfaces with readable text, each labeled as a figure and as an example |
-| Three stacked chevrons | A tiered pine on a launch pad, with a wordmark whose i-dot is a pine |
+| Three stacked chevrons | One triangle over one bar; a one-color wordmark |
 | Fade-and-rise on every section | One hero entrance (cards settle in order 01, 02, 03), state changes inside panels, progress fills, page fade |
 
-## Brand
+## Brand (revised 2026-11-14 after review: "simpler, more commercial")
 
-Concept A, "Pine on the pad": two triangle tiers, a trunk, a pad bar with
-a 1.5-unit gap. Wordmark in Space Grotesk Medium, -3% tracking, "Launch"
-in pine, pine triangle for the i-dot. Files in `design/brand/`, lockups in
-Figma (01 — Brand Identity) and in `design/mockups/brand.html`. Concepts B
-(rocket pine) and C (P monogram) are shown for comparison and not
-recommended.
+One triangle over one bar. The triangle is the pine, the arrow and the
+launch; the bar is the pad it has just left. Two shapes, nothing to lose at
+16 px. Wordmark "PineLaunch" in Space Grotesk Medium, -3% tracking, one
+color. Files in `design/brand/`; sheet in `design/mockups/brand.html`. The
+earlier tiered pine, rocket pine and P monogram are kept on the sheet for
+the record and are not recommended.
 
-## System
+## System (revised: black and grey, pine as a hint)
 
-Tokens exactly as the brief lists them. Space Grotesk above 22 px, Manrope
-for reading, IBM Plex Mono for labels, dates, codes and URLs. Radii 6 / 10 /
-14 / 20 / 28 by role. Max content width 1200 (1248 with gutters), gutters
-20 on phones, 96 at 1440.
+The founder reviewed the first pass and asked for less green. Surfaces are
+now neutral: page #0B0B0B, hero and header #050505, panels #121212 /
+#181818 / #202020, lines #1E1E1E / #2A2A2A / #3A3A3A, text #F4F4F4 /
+#B9B9B9 / #8A8A8A. Pine (#7EA889, highlight #A2C5AA, deep #315F43) appears
+only on the mark, the primary button, checked boxes, the current timeline
+node, live indicators and one key number. Nothing else is tinted. The
+brief's green-tinted tokens are superseded by this decision. Type and radii
+unchanged: Space Grotesk above 22 px, Manrope for reading, IBM Plex Mono for
+labels; radii 6 / 10 / 14 / 20 / 28; max content width 1200; gutters 20 on
+phones, 96 at 1440.
 
 ## Homepage (desktop 1440, mobile 390)
 

diff --git a/design/brand/README.md b/design/brand/README.md
@@ -1,19 +1,17 @@
 # PineLaunch brand assets
 
-Construction: a 24-unit grid. Two stacked triangles make a tiered pine; the
-upper tier's base is wider than the lower tier at the same height, which
-gives the step a pine silhouette has. A 3x3 trunk sits under the canopy.
-The pad is a 14x2 bar with a 1.5-unit gap below the trunk: the tree is
-just off the ground, which is the "launch". At 16px the gap still reads.
+Mark: one triangle (pine canopy, arrow, launch) over one bar (the pad), on a
+24-unit grid. Triangle apex (12,2.5), base y=16 from x=2.5 to 21.5. Bar
+15 x 2.5 at y=19, fully rounded ends. The 3-unit gap between them is the
+lift-off. Two shapes, no detail to lose at 16 px.
 
-Wordmark: "PineLaunch" in Space Grotesk Medium, letter-spacing -0.03em,
-with the dot of the "i" replaced by a small pine triangle (same shape as the
-upper tier, scaled). In code this is a dotless i (U+0131) with an SVG
-triangle positioned above it. "Pine" is text-primary, "Launch" is pine.
+Wordmark: "PineLaunch" in Space Grotesk Medium, letter-spacing -0.03em, one
+color (white on dark, near-black on light). No split color, no decoration.
 
-Files: mark.svg (pine on dark), mark-mono-light.svg (white, for dark
-backgrounds), mark-mono-dark.svg (near-black, for light print),
-favicon.svg (rounded tile). Lockups are built in Figma on the
-"01 — Brand Identity" section and in `components/Brand.tsx`.
+Color: the mark is pine #7EA889 on dark, pine highlight #A2C5AA inside the
+near-black icon tile, white for one-color use on dark, #0B0B0B on light.
+Never a gradient.
 
-Clear space: one trunk width (3 units) on all sides. Minimum size: 16px.
+Files: mark.svg, mark-mono-light.svg, mark-mono-dark.svg, favicon.svg.
+Lockups: `design/mockups/brand.html`. Clear space: one bar height (2.5
+units) on all sides. Minimum size: 16 px.

diff --git a/PROJECT_STATUS.md b/PROJECT_STATUS.md
@@ -29,7 +29,7 @@ two follows a design-first brief: `design/BASELINE_AUDIT.md`,
 logo concept sheet in `design/mockups/`, with screenshots in
 `design/mockups/shots/`. A Figma file exists with the brand page built;
 further Figma work is blocked by the Starter plan's 20 calls per month.
-No application code has changed in this round yet. Next: founder approves
+Founder review 1: palette changed to neutral black and grey with pine as a hint, and the mark simplified to one triangle over one bar. No application code has changed in this round yet. Next: founder approves
 the direction and homepage, then implementation page by page with
 Playwright screenshot checks.
 
